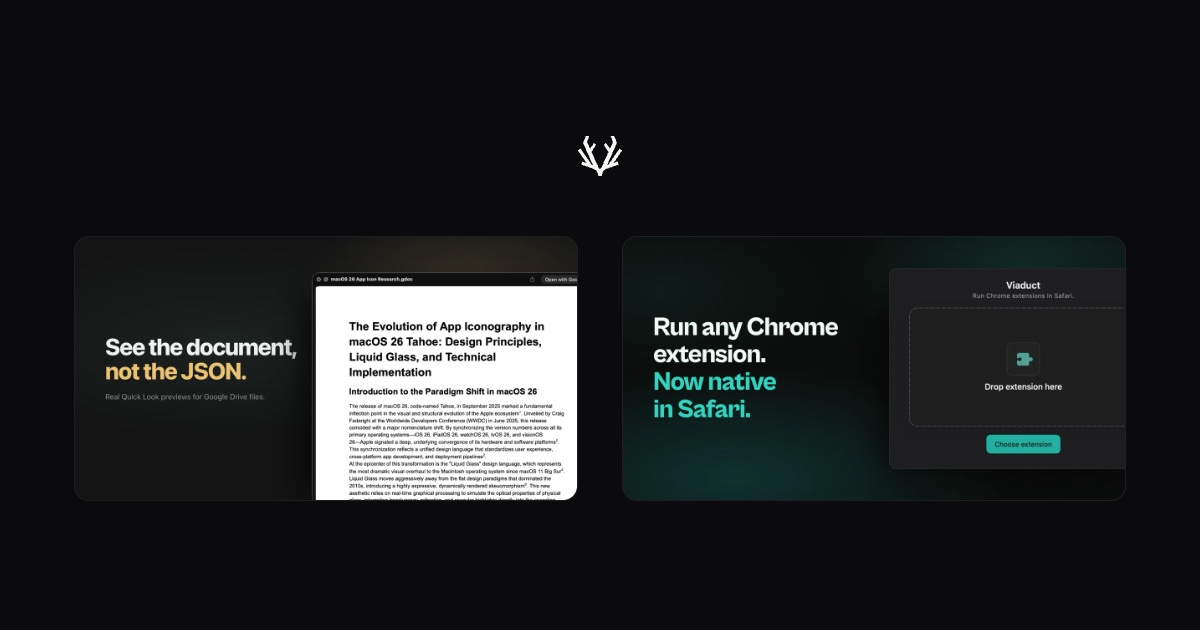
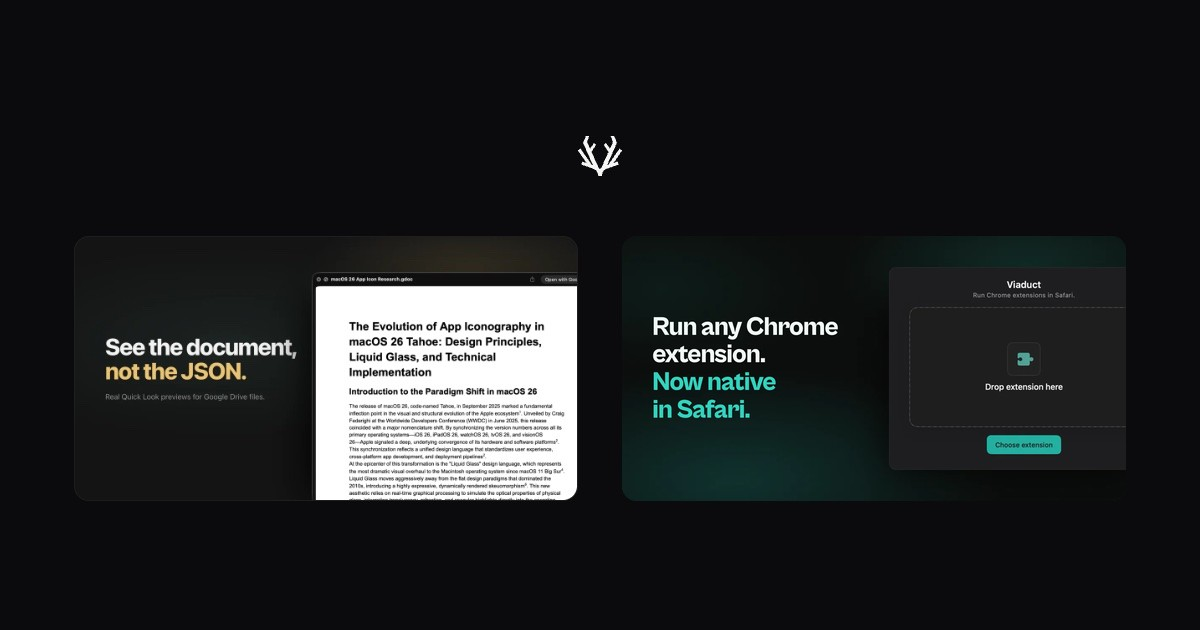
Replace the light Viaduct window in the home social card
og-home.jpg still carried the old light-mode Viaduct cover, so link
previews of the homepage showed a light app that no longer exists.
Re-composited the right card from the current dark cover and versioned
the og:image URLs so scrapers refetch instead of serving their cache.

diff --git a/404.html b/404.html
@@ -20,14 +20,14 @@
 <meta property="og:type" content="website">
 <meta property="og:site_name" content="Magicelk Labs">
 <meta property="og:locale" content="en_US">
-<meta property="og:image" content="https://magicelklabs.com/assets/og-home.jpg">
+<meta property="og:image" content="https://magicelklabs.com/assets/og-home.jpg?v=2">
 <meta property="og:image:width" content="1200">
 <meta property="og:image:height" content="630">
 <meta property="og:image:alt" content="The Magicelk Labs elk mark above the Spyglass and Viaduct app covers on a black canvas">
 <meta name="twitter:card" content="summary_large_image">
 <meta name="twitter:title" content="Page not found, Magicelk Labs">
 <meta name="twitter:description" content="That page isn't here. It may have moved, or the link was wrong.">
-<meta name="twitter:image" content="https://magicelklabs.com/assets/og-home.jpg">
+<meta name="twitter:image" content="https://magicelklabs.com/assets/og-home.jpg?v=2">
 <link rel="preconnect" href="https://fonts.googleapis.com">
 <link rel="preconnect" href="https://fonts.gstatic.com" crossorigin>
 <link rel="preconnect" href="https://api.fontshare.com" crossorigin>

diff --git a/index.html b/index.html
@@ -32,14 +32,14 @@
 <meta property="og:url" content="https://magicelklabs.com/">
 <meta property="og:site_name" content="Magicelk Labs">
 <meta property="og:locale" content="en_US">
-<meta property="og:image" content="https://magicelklabs.com/assets/og-home.jpg">
+<meta property="og:image" content="https://magicelklabs.com/assets/og-home.jpg?v=2">
 <meta property="og:image:width" content="1200">
 <meta property="og:image:height" content="630">
 <meta property="og:image:alt" content="The Magicelk Labs elk mark above the Spyglass and Viaduct app covers on a black canvas">
 <meta name="twitter:card" content="summary_large_image">
 <meta name="twitter:title" content="Magicelk Labs">
 <meta name="twitter:description" content="Native single-purpose Mac apps you pay for once.">
-<meta name="twitter:image" content="https://magicelklabs.com/assets/og-home.jpg">
+<meta name="twitter:image" content="https://magicelklabs.com/assets/og-home.jpg?v=2">
 <link rel="preconnect" href="https://fonts.googleapis.com">
 <link rel="preconnect" href="https://fonts.gstatic.com" crossorigin>
 <link rel="preconnect" href="https://cdn.jsdelivr.net" crossorigin>
